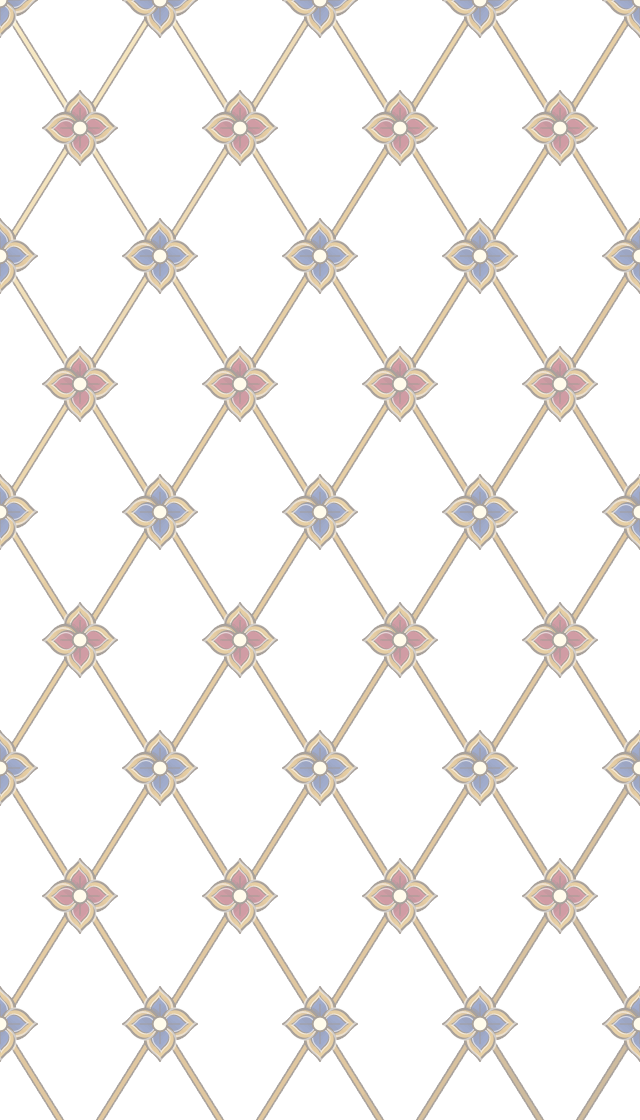
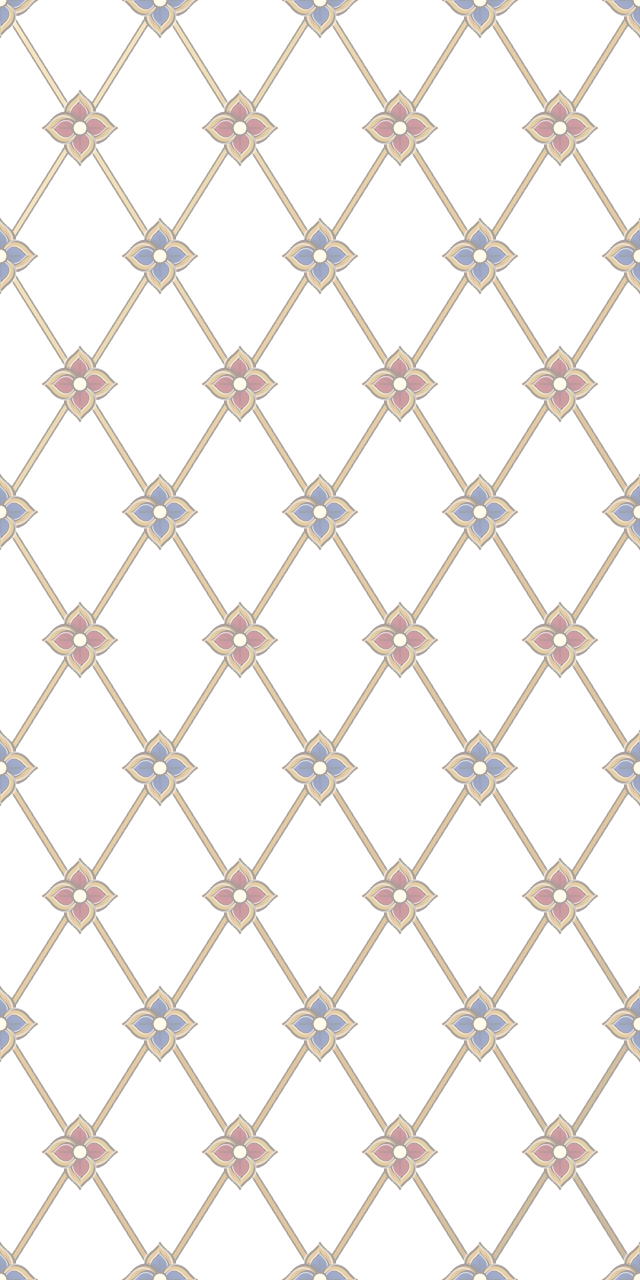
Add files via upload

diff --git a/index.html b/index.html
@@ -1551,7 +1551,7 @@ function buildKbachFrameOverlay(styleId, t, s, layer){
   const pu = kbachPresetUrl(layer, styleId);
   if(!pu) return "";
   if(layer === "bg"){
-    return `<style>.hero{background:radial-gradient(ellipse at 50% 0%, color-mix(in srgb, var(--accent-1) 12%, transparent) 0%, transparent 60%) !important;}</style><div class="kbach-custom-bg kb-bg-anim" style="background-image:url('${pu}');background-size:cover;" aria-hidden="true"></div>`;
+    return `<style>.hero{background:radial-gradient(ellipse at 50% 0%, color-mix(in srgb, var(--accent-1) 12%, transparent) 0%, transparent 60%) !important;}</style><div class="kbach-custom-bg kb-bg-anim${(s && s.kbachFrame && s.kbachFrame !== "none") ? " kb-bg-framed" : ""}" style="background-image:url('${pu}');background-size:contain;" aria-hidden="true"></div>`;
   }
   return `<div class="kb-frame" style="--kb-img:url('${pu}');" aria-hidden="true"><div class="kb-shine"></div></div>`;
 }
@@ -1839,12 +1839,14 @@ body{margin:0;color:var(--ink);font-family:var(--body-font);line-height:1.8;-web
 .deco-hang{position:fixed;top:0;left:-4%;width:108%;height:clamp(104px,32vw,150px);z-index:60;pointer-events:none;background-repeat:repeat-x;background-size:auto 100%;background-position:center top;transform-origin:50% 0;animation:deco-hang 6s ease-in-out infinite alternate;}
 @keyframes deco-hang{from{transform:rotate(-1.1deg);}to{transform:rotate(1.1deg);}}
 @media(prefers-reduced-motion:reduce){.deco-corner svg,.deco-side,.deco-gold .dg-o,.deco-hang{animation:none !important;}}
-.kb-frame{position:fixed;inset:0;z-index:60;pointer-events:none;box-sizing:border-box;--kb-w:clamp(120px,27vw,190px);border:var(--kb-w) solid transparent;border-image-source:var(--kb-img);border-image-slice:405;border-image-width:var(--kb-w);border-image-repeat:round;animation:kb-glow 6s ease-in-out infinite;}
+.kb-frame{position:fixed;inset:0;z-index:60;pointer-events:none;box-sizing:border-box;border:var(--kb-w) solid transparent;border-image-source:var(--kb-img);border-image-slice:405;border-image-width:var(--kb-w);border-image-repeat:round;animation:kb-glow 6s ease-in-out infinite;}
 .kb-shine{position:absolute;inset:calc(-1 * var(--kb-w));pointer-events:none;-webkit-mask-box-image:var(--kb-img) 405 / var(--kb-w) round;mask-border:var(--kb-img) 405 / var(--kb-w) round;background:linear-gradient(115deg,transparent 38%,rgba(255,246,205,.95) 50%,transparent 62%) 0 0/300% 300%;animation:kb-shine 5.5s ease-in-out infinite;}
-.kb-bg-anim{transform-origin:50% 60%;animation:kb-bgmove 28s ease-in-out infinite alternate;}
+.kb-bg-anim{transform-origin:50% 50%;animation:kb-bgmove 14s ease-in-out infinite alternate;}
+.kb-bg-framed{inset:calc(var(--kb-w) * .3);-webkit-mask-image:linear-gradient(to right,transparent 0,#000 14%,#000 86%,transparent 100%),linear-gradient(to bottom,transparent 0,#000 10%,#000 90%,transparent 100%);-webkit-mask-composite:source-in;mask-image:linear-gradient(to right,transparent 0,#000 14%,#000 86%,transparent 100%),linear-gradient(to bottom,transparent 0,#000 10%,#000 90%,transparent 100%);mask-composite:intersect;}
+:root{--kb-w:clamp(96px,24vw,170px);}
 @keyframes kb-glow{0%,100%{filter:drop-shadow(0 0 2px rgba(255,205,100,.18));}50%{filter:drop-shadow(0 0 9px rgba(255,205,100,.75));}}
 @keyframes kb-shine{0%{background-position:100% 100%;}60%,100%{background-position:0% 0%;}}
-@keyframes kb-bgmove{0%{transform:scale(1) translate3d(0,0,0);opacity:.85;}100%{transform:scale(1.09) translate3d(-1.2%,-1.5%,0);opacity:1;}}
+@keyframes kb-bgmove{0%{opacity:.78;}100%{opacity:1;}}
 @media(prefers-reduced-motion:reduce){.kb-frame,.kb-shine,.kb-bg-anim{animation:none !important;}}
 .kbach-custom-bg{position:fixed;inset:0;z-index:-1;pointer-events:none;background-repeat:no-repeat;background-position:center;}
 .kbach-custom-frame{position:fixed;inset:0;z-index:60;pointer-events:none;background-repeat:no-repeat;background-position:center;}
